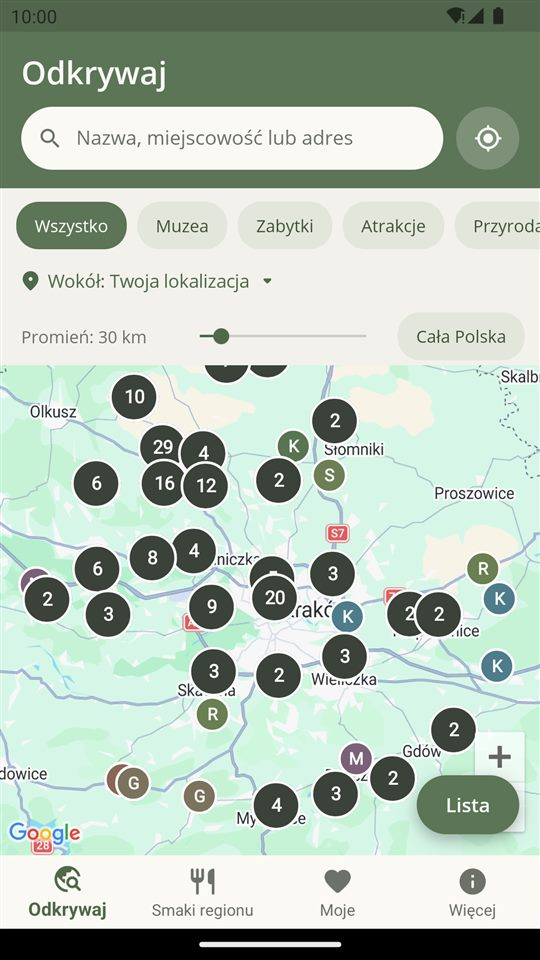
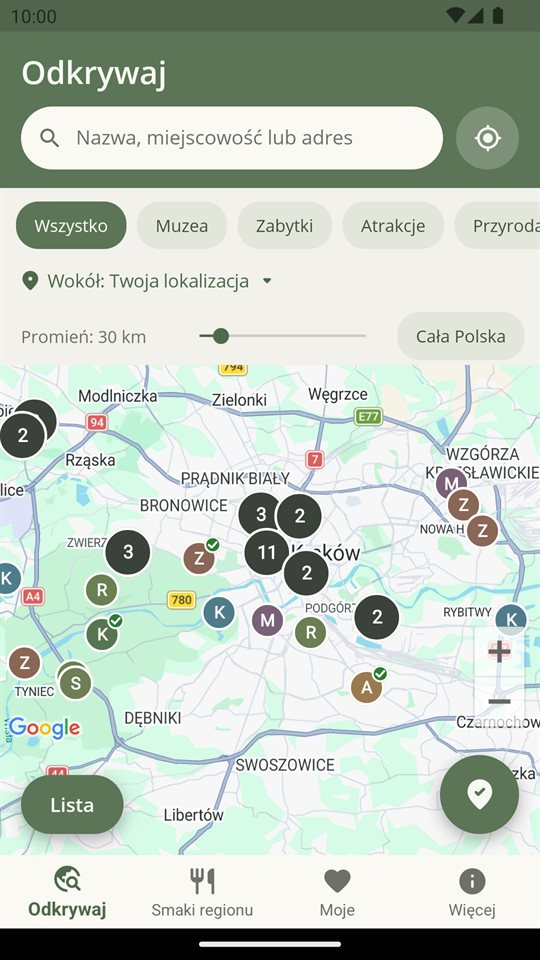
Weekend w regionie: new app screenshots, visit feature, styled privacy policy page

diff --git a/weekend-w-regionie/polityka-prywatnosci.html b/weekend-w-regionie/polityka-prywatnosci.html
@@ -4,13 +4,113 @@
 <meta charset="utf-8">
 <meta name="viewport" content="width=device-width, initial-scale=1">
 <title>Polityka prywatności – Weekend w regionie</title>
-<!-- Gotowy HTML: repozytorium z danymi ma .nojekyll, więc pliki .md nie byłyby renderowane. -->
+<meta name="description" content="Polityka prywatności aplikacji Weekend w regionie: jakie dane przetwarza aplikacja, czego nie robi i z jakich usług korzysta.">
+<meta name="theme-color" content="#0F1630">
+<link rel="icon" type="image/png" sizes="32x32" href="../assets/img/favicon-32.png">
+<link rel="apple-touch-icon" href="../assets/img/icon-192.png">
+<!-- Wygląd jak na stronie głównej (index.html). Treść między znacznikami polityka:start/koniec
+     wstawia tools/sync-privacy-policy.sh z site/privacy-policy.html w repozytorium aplikacji – nie edytuj jej tutaj. -->
 <style>
-  body { font-family: system-ui, sans-serif; line-height: 1.5; max-width: 40rem; margin: 0 auto; padding: 1rem; color: #1b1b1b; background: #fff; }
-  @media (prefers-color-scheme: dark) { body { color: #e8e8e8; background: #121212; } a { color: #8ab4f8; } }
+  @font-face { font-family: "Open Sans"; src: url("../assets/fonts/OpenSans-Regular.ttf") format("truetype"); font-weight: 400; font-display: swap; }
+  @font-face { font-family: "Open Sans"; src: url("../assets/fonts/OpenSans-Semibold.ttf") format("truetype"); font-weight: 600; font-display: swap; }
+
+  :root {
+    --navy: #0F1630;
+    --navy-2: #1A237E;
+    --ink: #1D2233;
+    --muted: #5A6275;
+    --sky: #E3F2FD;
+    --blue: #1E88E5;
+    --yellow: #FFD54F;
+    --sage: #5B7556;
+    --bg: #FAFBFD;
+    --card: #FFFFFF;
+    --line: #E4E8F0;
+    --radius: 18px;
+    --shadow: 0 18px 40px rgba(15, 22, 48, 0.12);
+  }
+  @media (prefers-color-scheme: dark) {
+    :root:not([data-theme="light"]) {
+      --ink: #E7EBF5; --muted: #A9B1C4; --bg: #0B1024; --card: #131A36; --line: #232B4D;
+      --blue: #64B5F6; --shadow: 0 18px 40px rgba(0, 0, 0, 0.35);
+    }
+  }
+
+  * { box-sizing: border-box; }
+  body { margin: 0; font-family: "Open Sans", system-ui, -apple-system, "Segoe UI", sans-serif; color: var(--ink); background: var(--bg); line-height: 1.6; }
+  img { max-width: 100%; height: auto; display: block; }
+  a { color: inherit; }
+  .wrap { width: min(1120px, 100% - 32px); margin-inline: auto; }
+
+  /* Nagłówek */
+  header { position: sticky; top: 0; z-index: 10; background: rgba(15, 22, 48, 0.88); backdrop-filter: saturate(1.4) blur(10px); }
+  .bar { display: flex; align-items: center; justify-content: space-between; height: 64px; }
+  .bar img { height: 38px; width: auto; }
+  nav { display: flex; gap: 22px; }
+  nav a { color: var(--sky); text-decoration: none; font-size: 15px; opacity: 0.85; }
+  nav a:hover { opacity: 1; color: var(--yellow); }
+  @media (max-width: 600px) { nav { gap: 14px; } nav a { font-size: 14px; } .bar img { height: 32px; } }
+
+  /* Pasek tytułowy */
+  .band { color: var(--sky);
+    background: radial-gradient(900px 360px at 85% -40%, rgba(100, 181, 246, 0.28), transparent 60%),
+                linear-gradient(160deg, var(--navy) 0%, #141D45 55%, var(--navy-2) 100%); }
+  .band .wrap { padding: 40px 0 72px; }
+  .crumbs { font-size: 14px; color: rgba(227, 242, 253, 0.75); }
+  .crumbs a { color: var(--sky); text-decoration: none; }
+  .crumbs a:hover { color: var(--yellow); }
+  .app { display: flex; align-items: center; gap: 14px; margin-top: 18px; }
+  .app-icon { width: 48px; height: 48px; border-radius: 14px; background: var(--sage); flex: none; display: grid; place-items: center; }
+  .app b { display: block; font-size: 20px; font-weight: 600; color: #fff; line-height: 1.2; }
+  .app span { font-size: 14px; color: rgba(227, 242, 253, 0.75); }
+
+  /* Treść polityki */
+  .doc { width: min(820px, 100% - 32px); margin: -44px auto 72px; background: var(--card); border: 1px solid var(--line); border-radius: 28px; padding: 44px 48px; box-shadow: var(--shadow); }
+  @media (max-width: 600px) { .doc { padding: 26px 20px; border-radius: 20px; } }
+  .doc h1 { font-size: clamp(26px, 4vw, 36px); line-height: 1.2; margin: 0 0 8px; font-weight: 600; letter-spacing: -0.01em; }
+  .doc h1 + p { color: var(--muted); font-size: 14px; margin: 0 0 28px; padding-bottom: 20px; border-bottom: 1px solid var(--line); }
+  .doc h2 { font-size: 20px; line-height: 1.3; margin: 32px 0 10px; font-weight: 600; }
+  .doc p { margin: 0 0 14px; }
+  .doc ul { margin: 0 0 14px; padding-left: 0; list-style: none; display: grid; gap: 10px; }
+  .doc li { position: relative; padding-left: 22px; }
+  .doc li::before { content: ""; position: absolute; left: 4px; top: 0.62em; width: 8px; height: 8px; border-radius: 50%; background: var(--sage); }
+  @media (prefers-color-scheme: dark) { :root:not([data-theme="light"]) .doc li::before { background: #A3BB9B; } }
+  .doc strong { font-weight: 600; }
+  .doc a { color: var(--blue); text-decoration: none; font-weight: 600; overflow-wrap: anywhere; }
+  .doc a:hover { text-decoration: underline; }
+
+  footer { padding: 36px 0 48px; color: var(--muted); font-size: 14px; border-top: 1px solid var(--line); }
+  footer .wrap { display: flex; flex-wrap: wrap; justify-content: space-between; gap: 12px; }
+  footer a { color: var(--blue); text-decoration: none; font-weight: 600; }
 </style>
 </head>
 <body>
+
+<header>
+  <div class="wrap bar">
+    <a href="../" aria-label="AppStorm – strona główna"><img src="../assets/img/appstorm-logo-horizontal-light.svg" alt="AppStorm" width="122" height="38"></a>
+    <nav aria-label="Menu">
+      <a href="../#projekty">Projekty</a>
+      <a href="../#kontakt">Kontakt</a>
+    </nav>
+  </div>
+</header>
+
+<main>
+  <div class="band">
+    <div class="wrap">
+      <div class="crumbs"><a href="../">AppStorm</a> / <a href="../#projekty">Projekty</a> / Weekend w regionie</div>
+      <div class="app">
+        <div class="app-icon" aria-hidden="true">
+          <svg width="26" height="26" viewBox="0 0 24 24" fill="none" stroke="#F7F8F3" stroke-width="2" stroke-linecap="round" stroke-linejoin="round"><path d="M3 20l6-12 4 7 3-4 5 9z"/><circle cx="17" cy="6" r="2"/></svg>
+        </div>
+        <div><b>Weekend w regionie</b><span>Aplikacja na Androida · dokumenty</span></div>
+      </div>
+    </div>
+  </div>
+
+  <article class="doc">
+<!-- polityka:start -->
 <h1>Polityka prywatności – Weekend w regionie</h1>
 
 <p>Obowiązuje od: 2026-09-29, ostatnia zmiana: 2026-10-06.</p>
@@ -47,5 +147,16 @@
 
 <h2>Zmiany</h2>
 <p>O zmianach tej polityki informujemy, aktualizując tę stronę i datę na górze.</p>
+<!-- polityka:koniec -->
+  </article>
+</main>
+
+<footer>
+  <div class="wrap">
+    <span>© 2026 AppStorm Tomasz Jagielski</span>
+    <span><a href="../">← Strona główna AppStorm</a></span>
+  </div>
+</footer>
+
 </body>
 </html>

diff --git a/index.html b/index.html
@@ -260,6 +260,7 @@
           <ul class="features">
             <li>Dane z rejestrów publicznych, Lasów Państwowych, EEA i Wikidata</li>
             <li>Informacja, gdzie w pobliżu można legalnie nocować w lesie</li>
+            <li>Zaliczanie odwiedzonych miejsc – na miejscu albo na podstawie zdjęć</li>
             <li>Smaki regionu – produkty tradycyjne z każdego województwa</li>
           </ul>
           <div class="links">
@@ -268,9 +269,9 @@
           </div>
         </div>
         <div class="gallery">
-          <figure><div class="phone"><img src="assets/img/odkrywaj.jpg" alt="Lista miejsc w okolicy Krakowa ze zdjęciami" width="540" height="960" loading="lazy"></div><figcaption>Miejsca w pobliżu</figcaption></figure>
-          <figure><div class="phone"><img src="assets/img/mapa.jpg" alt="Mapa z pinezkami miejsc wokół Krakowa" width="540" height="960" loading="lazy"></div><figcaption>Mapa okolicy</figcaption></figure>
-          <figure><div class="phone"><img src="assets/img/zamek.jpg" alt="Karta Zamku Królewskiego na Wawelu" width="540" height="960" loading="lazy"></div><figcaption>Karta miejsca</figcaption></figure>
+          <figure><div class="phone"><img src="assets/img/odkrywaj.jpg" alt="Lista miejsc w okolicy Krakowa ze zdjęciami i znaczkami odwiedzonych miejsc" width="540" height="960" loading="lazy"></div><figcaption>Miejsca w pobliżu</figcaption></figure>
+          <figure><div class="phone"><img src="assets/img/mapa.jpg" alt="Mapa z pinezkami miejsc wokół Krakowa; odwiedzone mają zielony znaczek" width="540" height="960" loading="lazy"></div><figcaption>Mapa okolicy</figcaption></figure>
+          <figure><div class="phone"><img src="assets/img/zamek.jpg" alt="Karta Zamku Królewskiego na Wawelu z przyciskami Zalicz wizytę i Dodaj ze zdjęcia" width="540" height="960" loading="lazy"></div><figcaption>Karta miejsca</figcaption></figure>
         </div>
       </article>
 
